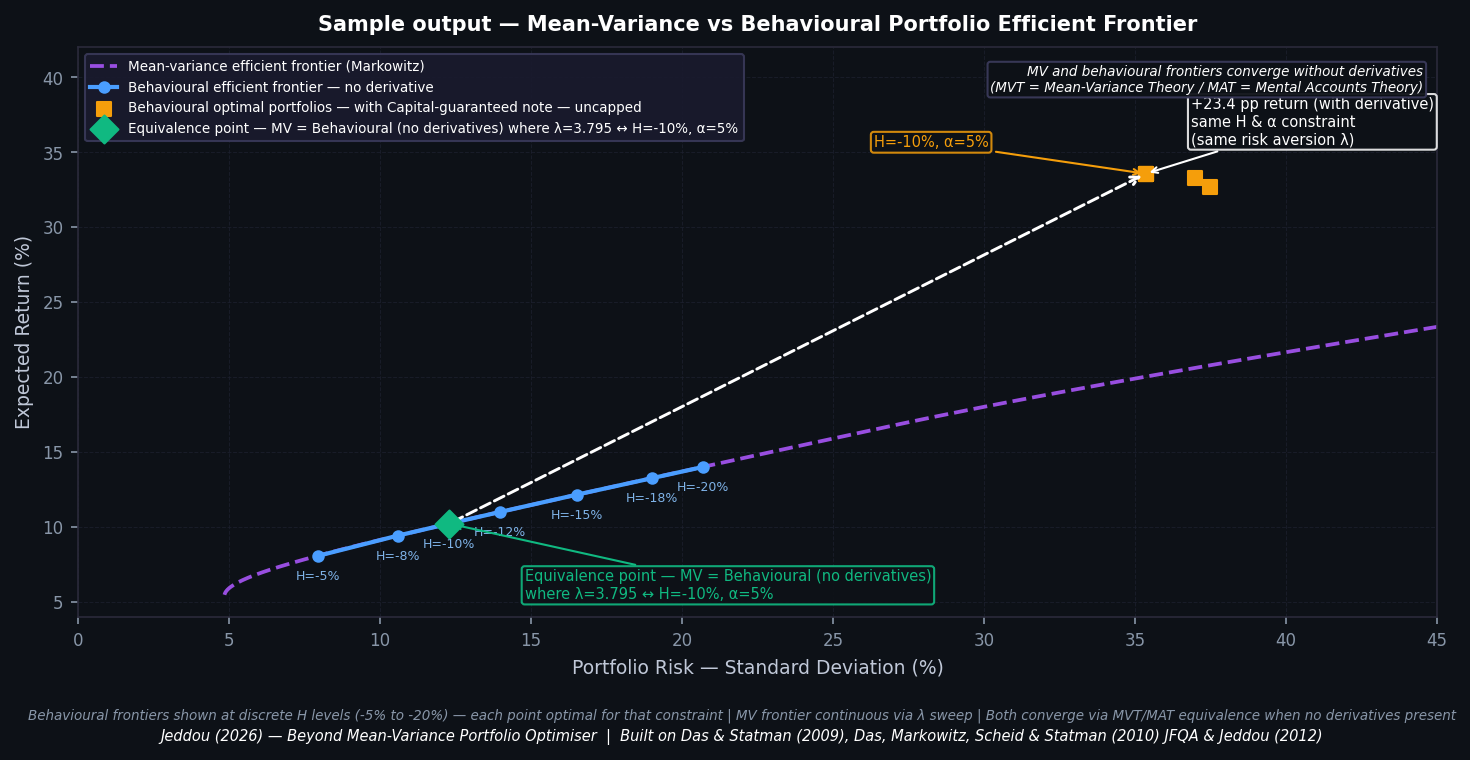
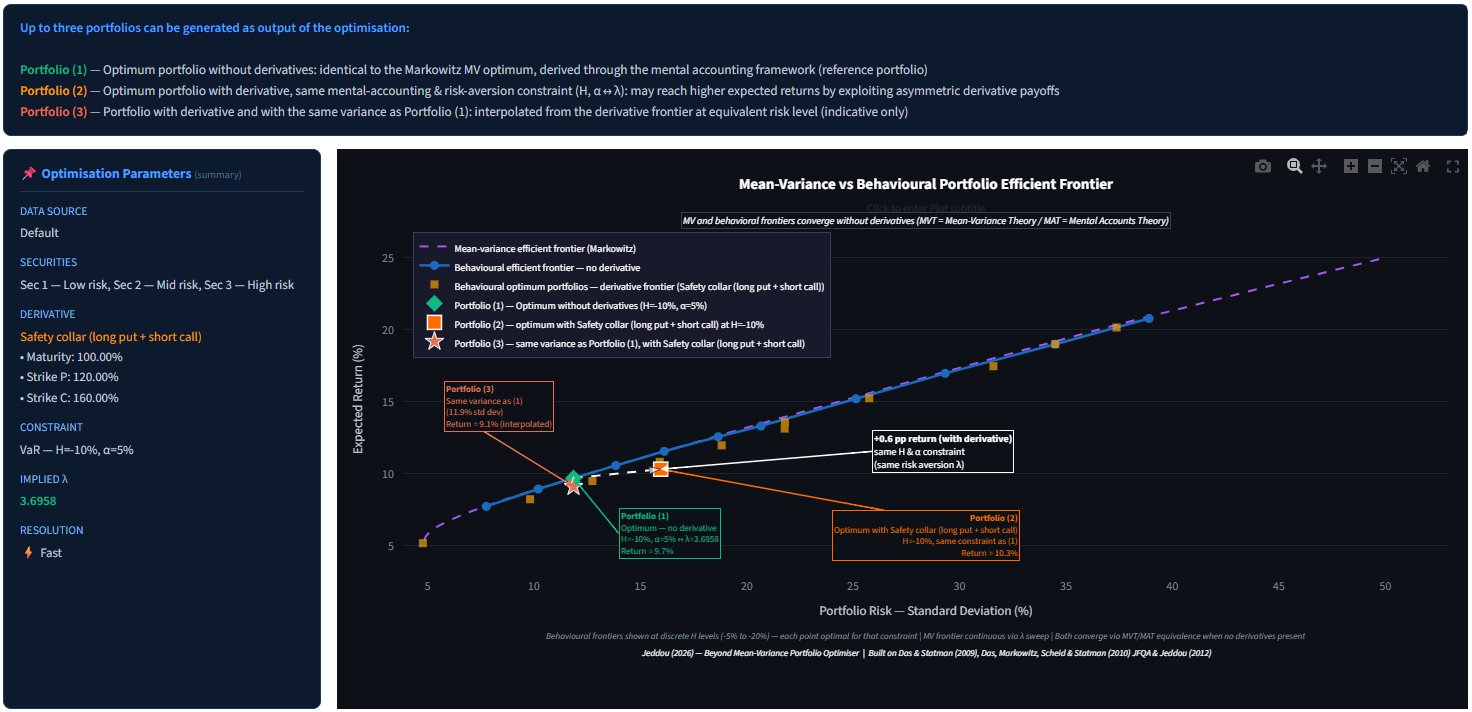
Add files via upload

diff --git a/README.md b/README.md
@@ -2,7 +2,7 @@
 
 > Extending Markowitz mean-variance theory to portfolios with derivatives and structured products using a mental-accounting framework.
 
-![Efficient Frontier](sample_output.png)
+![Portfolio Optimiser Output — Safety Collar example with three portfolio perspectives](sample_output.png)
 
 ---
 